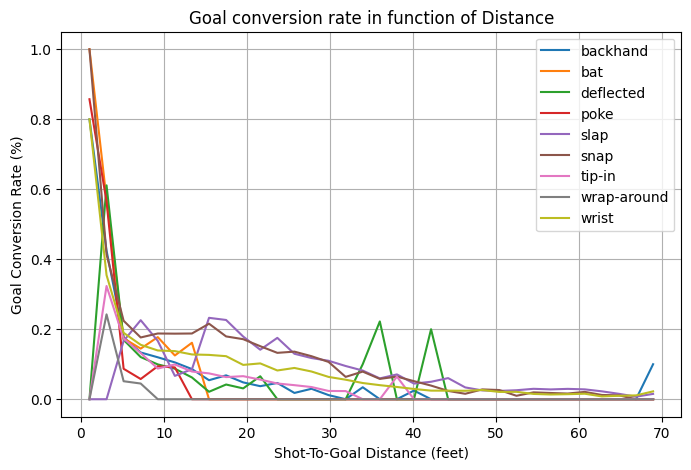
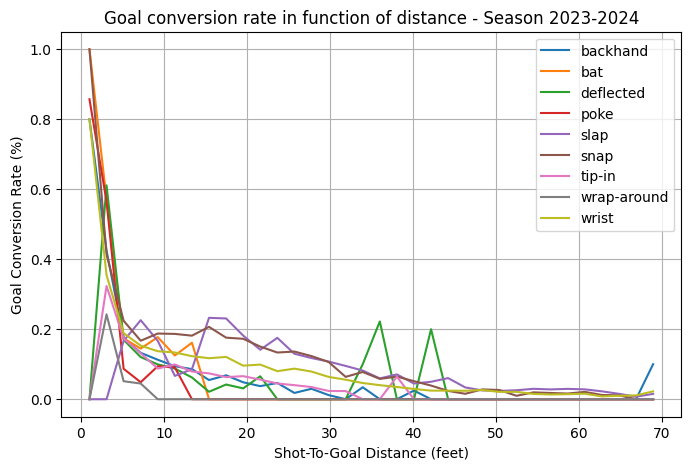
Added Season to Graph; Fixed Coordinate values of ice

Changed region(s): [[0.152, 0.0, 0.9421, 0.0596], [0.1823, 0.6553, 0.4559, 0.834]]

diff --git a/_posts/2024-09-17-milestone-1.md b/_posts/2024-09-17-milestone-1.md
@@ -186,7 +186,7 @@ The following image indicates the dimensions of an official NHL ice rink:
 We were able to deduce the following information:
 - The origin (0,0) is located at the center of the ice
 - The units of the coordinates are in feet
-- The rectangular size of the rink is 200'x85', so the coordinates go from Top-Left (-100, 42) to Bottom-Right (+100, -42)
+- The rectangular size of the rink is 200'x85', so the coordinates go from Top-Left (-100, 42.5) to Bottom-Right (+100, -42.5)
 - The center of the goals are at: Left goal: (-89, 0)  Right goal: (+89, 0)
 
 #### Challenge of calculating the distance
